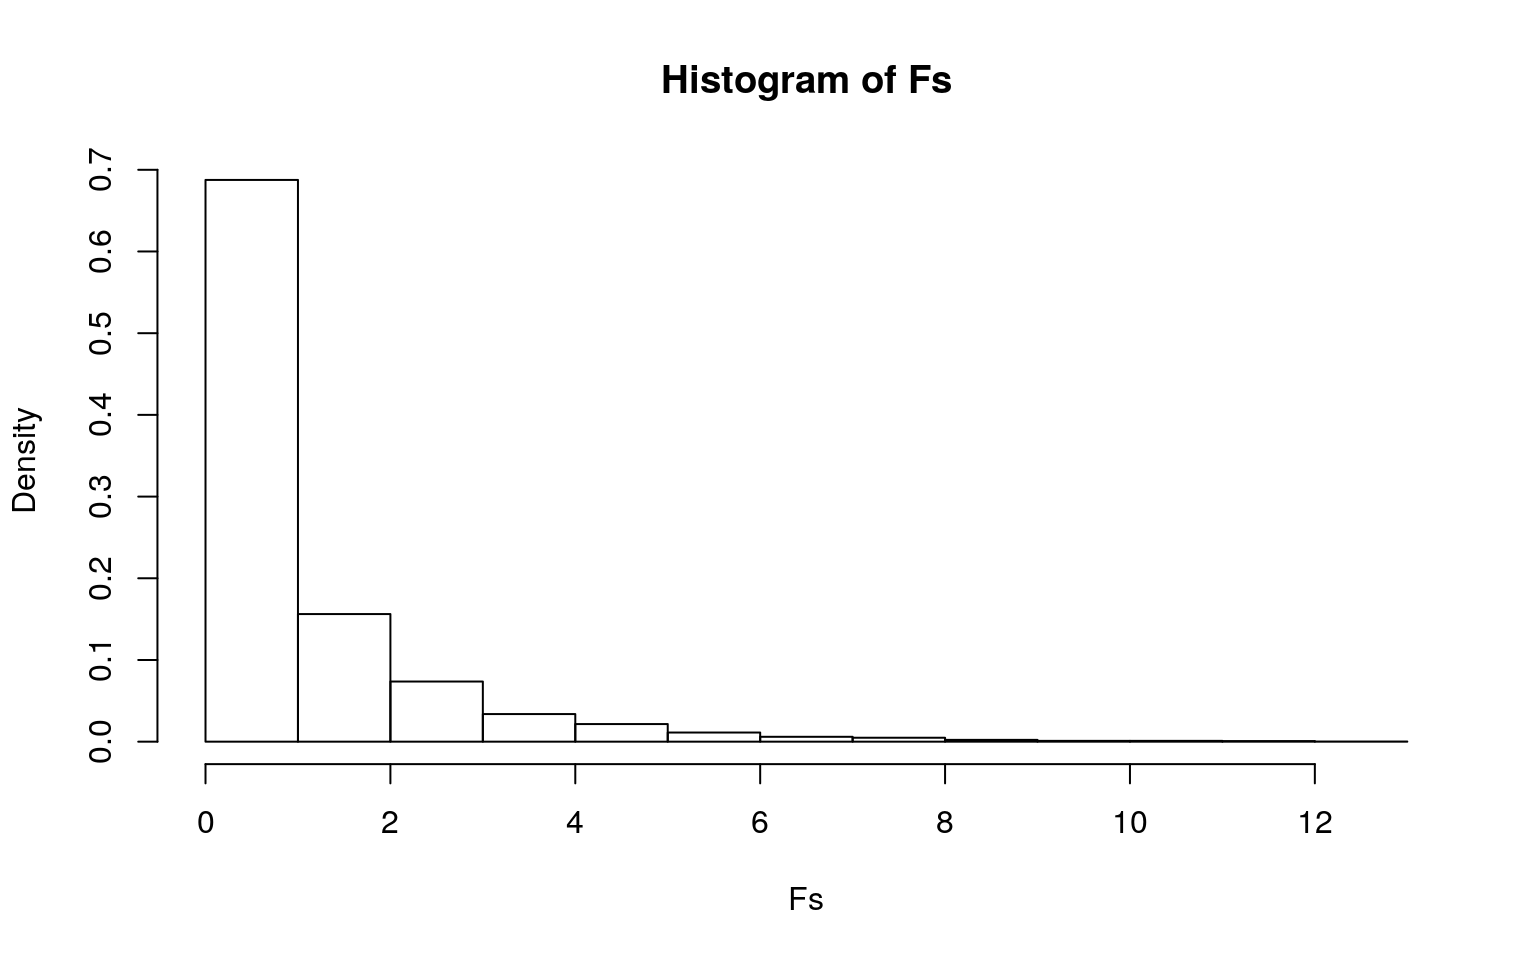
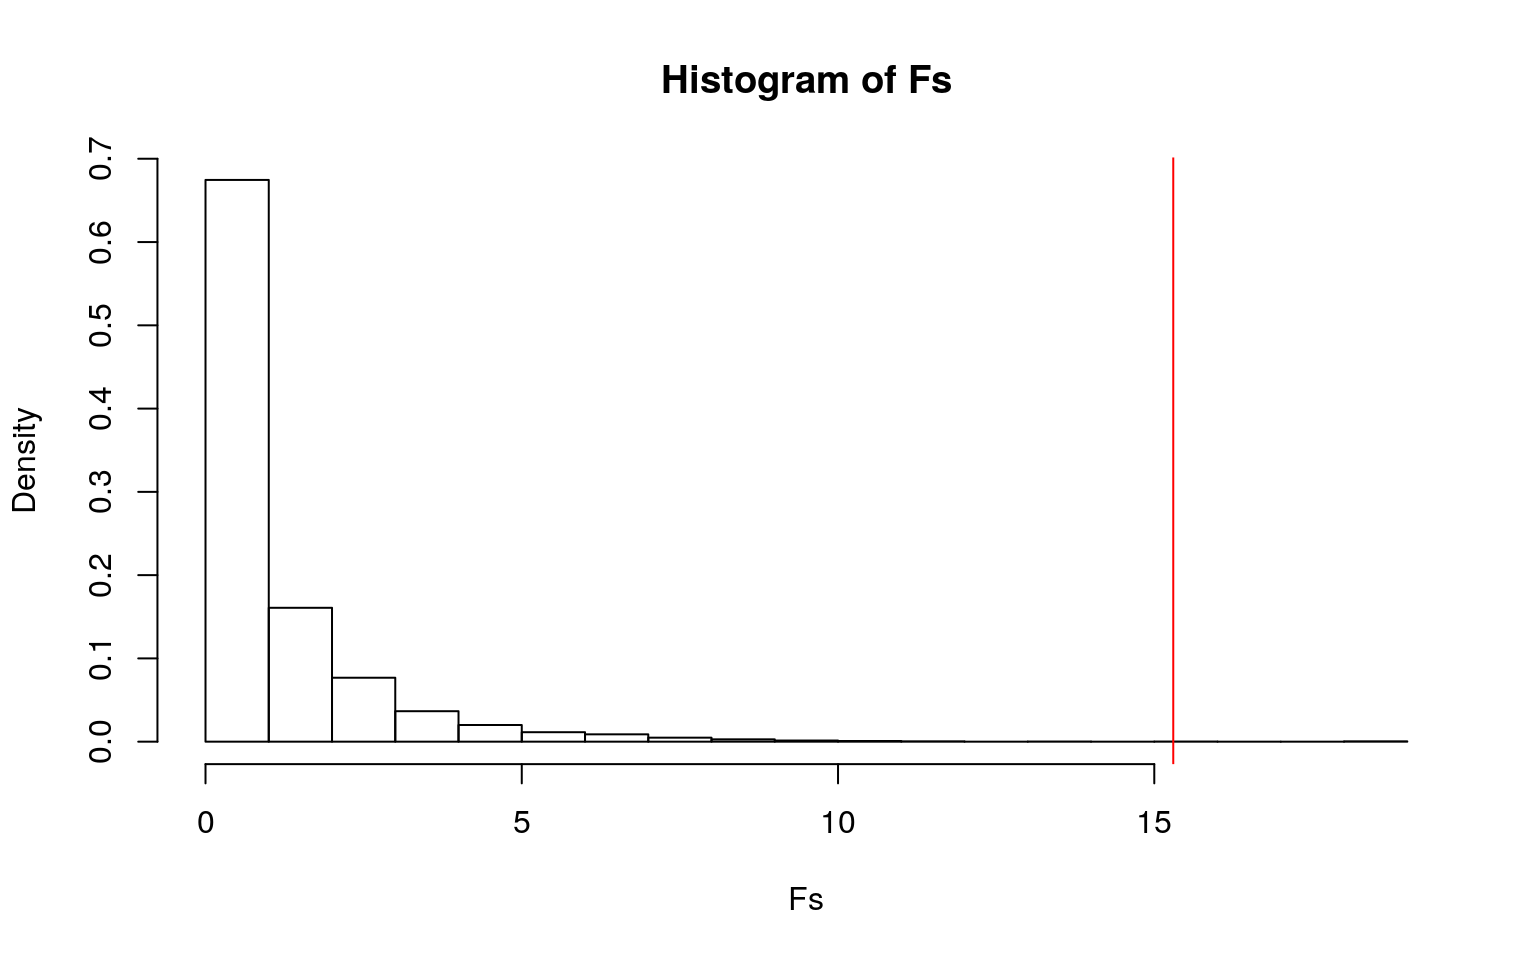
fix date

diff --git a/project/project2/index.html b/project/project2/index.html
@@ -60,7 +60,7 @@
  
 <div class="blog-title">
           <h4>
-         January 1, 0001 
+         April 29, 2021 
             &nbsp;&nbsp;
             
           </h4>
@@ -203,7 +203,7 @@ Fs &lt;- replicate(5000,{
 hist(Fs, prob=T); abline(v = obs_F, col=&quot;red&quot;,add=T)</code></pre>
 <p><img src="../../project/project2_files/figure-html/unnamed-chunk-1-1.png" width="768" style="display: block; margin: auto;" /></p>
 <pre class="r"><code>mean(Fs&gt;obs_F) </code></pre>
-<pre><code>## [1] 0</code></pre>
+<pre><code>## [1] 6e-04</code></pre>
 <p><em>The null hypothesis of the randomization test is that the ulcerated and non-ulcerated tumor patients mean survival time are equal and the alternative hypothesis is that they are not equal. The p-value is effectively zero which means none of the 5000 F statistics generated under the null hypothesis were bigger than the actual F statistic, reject the null hypothesis and conclude that the ulcerated and non-ulcerated tumor patients differ.</em></p>
 <p>#Linear Regression Model</p>
 <pre class="r"><code>melanoma$age_c=melanoma$age-mean(melanoma$age,na.rm=T)

diff --git a/project/index.html b/project/index.html
@@ -59,7 +59,7 @@
               <div class="row">
                 <div class="col-sm-4 col-md-4 col-lg-4">
                   <h5 style="text-align: right">
-                    January 1, 0001
+                    April 29, 2021
                   </h5>
                  </div>
                  <div class="col-sm-8 col-md-8 col-lg-8">
@@ -72,7 +72,7 @@
               <div class="row">
                 <div class="col-sm-4 col-md-4 col-lg-4">
                   <h5 style="text-align: right">
-                    January 1, 0001
+                    March 21, 2021
                   </h5>
                  </div>
                  <div class="col-sm-8 col-md-8 col-lg-8">

diff --git a/project/project1/index.html b/project/project1/index.html
@@ -60,7 +60,7 @@
  
 <div class="blog-title">
           <h4>
-         January 1, 0001 
+         March 21, 2021 
             &nbsp;&nbsp;
             
           </h4>
